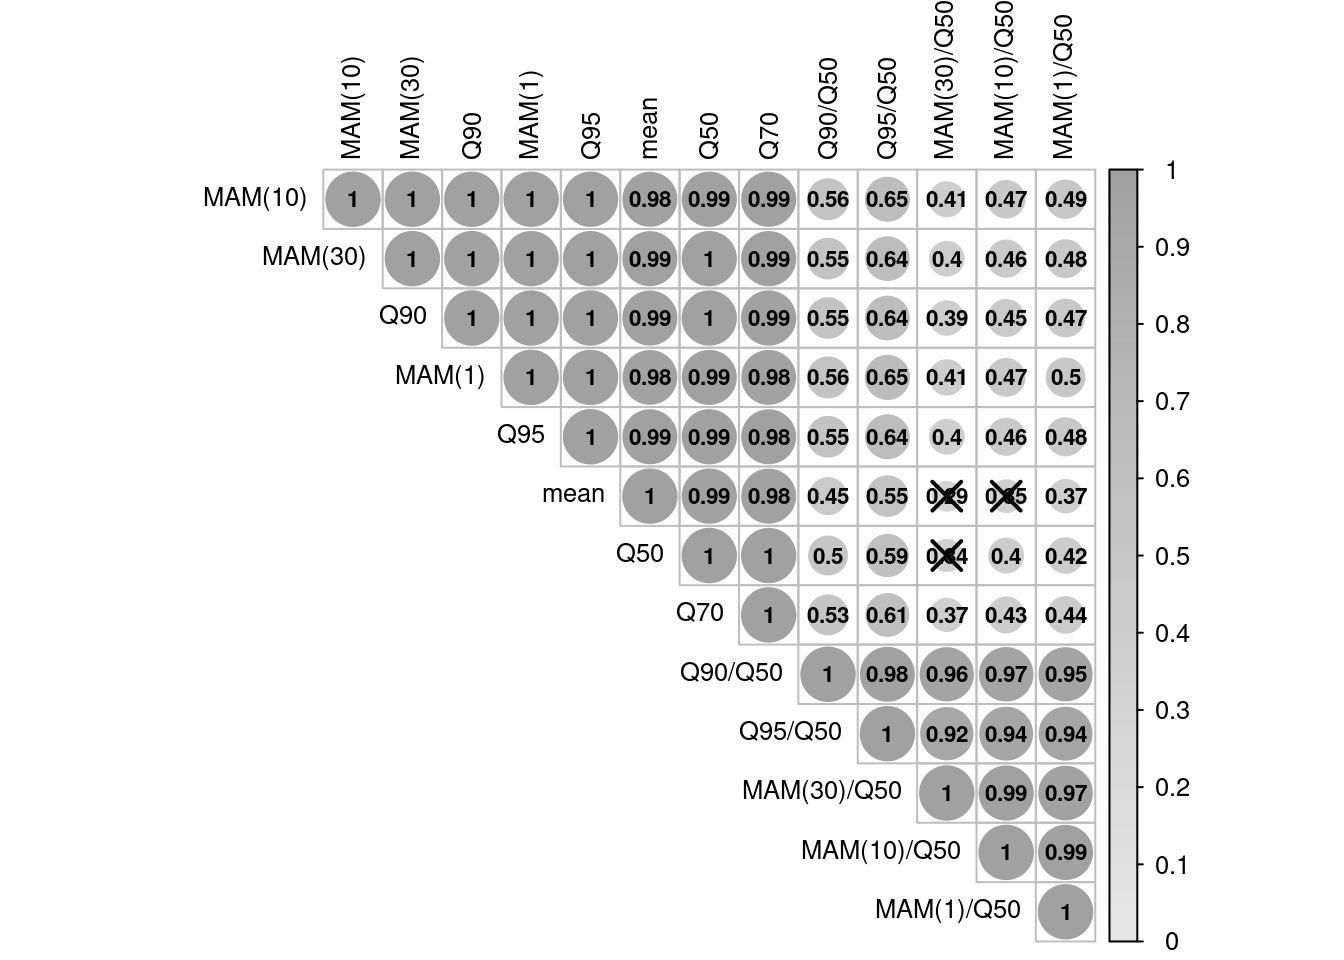
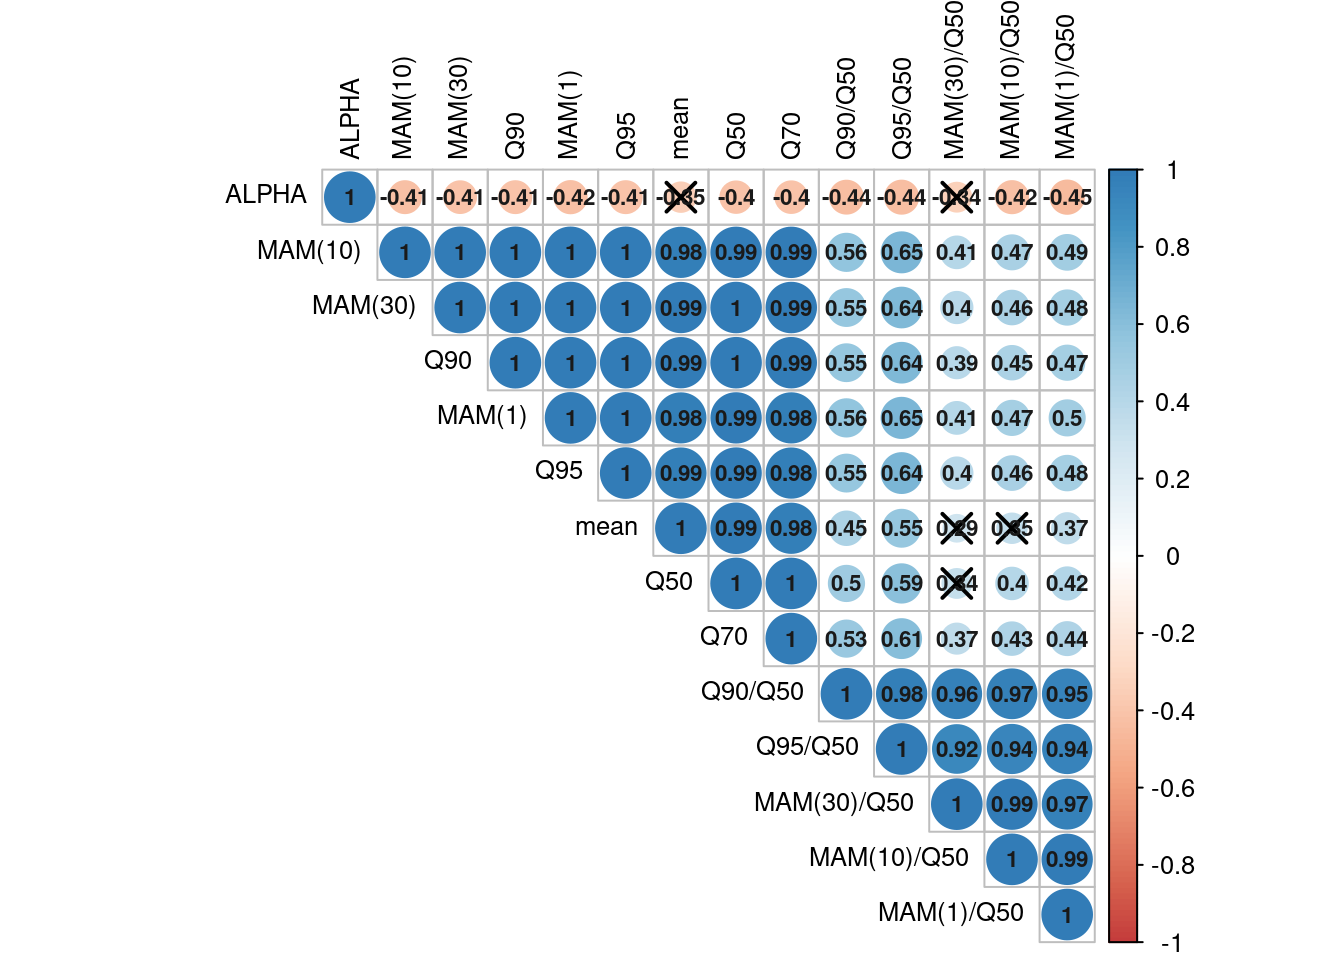
updating WE 5.7 and 5.8

Changed region(s): [[0.1562, 0.0, 0.9062, 1.0]]

diff --git a/worked_examples/html/5-4_threshold_level_method.html b/worked_examples/html/5-4_threshold_level_method.html
@@ -14,7 +14,6 @@
 
 <title>Worked example 5.4: Threshold level method</title>
 
-<script src="site_libs/header-attrs-2.3/header-attrs.js"></script>
 <link href="site_libs/tufte-css-2015.12.29/tufte-fonts.css" rel="stylesheet" />
 <link href="site_libs/tufte-css-2015.12.29/tufte.css" rel="stylesheet" />
 <link href="site_libs/highlightjs-9.12.0/default.css" rel="stylesheet" />
@@ -60,9 +59,9 @@ if (window.hljs) {
 </div>
 
 <p>It is possible to analyze any time series of river flow as long as there are not too many missing values in the dataset and a meaningful <span class="math inline">\(Q_0\)</span> threshold is chosen. Data from River Ngaruroro at Kuripapango (NZ) are used to demonstrate the procedure in the example below.</p>
-<div id="loading-the-data" class="section level1" number="1">
-<h1 number="1"><span class="header-section-number">1</span> Loading the Data</h1>
-<p>56 years of daily flow (20 September 1963 to 8 October 2019) are analysed. In this river the low flow period covers the turn of the calendar year. To avoid problems with allocating droughts to a specific calendar year because of drought events starting in one year and ending in another year, the start of the year is defined to be 1 September. An event is attributed to the year it starts.</p>
+<div id="loading-the-data" class="section level1">
+<h1><span class="header-section-number">1</span> Loading the Data</h1>
+<p>56 years of daily flow (20 September 1963 to 8 Oktober 2019) are analysed. In this river the low flow period covers the turn of the calendar year. To avoid problems with allocating droughts to a specific calendar year because of drought events starting in one year and ending in another year, the start of the year is defined to be 1 September. An event is attributed to the year it starts.</p>
 <pre class="r"><code>library(tidyverse)
 library(hydroDrought)
 
@@ -71,8 +70,8 @@ ngaruroro &lt;- international %&gt;%
   select(data) %&gt;%
   unnest(data) </code></pre>
 </div>
-<div id="preprocessing" class="section level1" number="2">
-<h1 number="2"><span class="header-section-number">2</span> Preprocessing</h1>
+<div id="preprocessing" class="section level1">
+<h1><span class="header-section-number">2</span> Preprocessing</h1>
 <p>The time series, Ngaruroro, contains missing values. We do not know if a missing value (<code>NA</code>) is ‘a flow below the threshold’ or ‘above the threshold’ as the flow value itself is unknown. A single missing value will cause the function <code>drought_events()</code> to terminate a dry spell (drought event) or wet spell. Subsequently most characteristics derived for this event (e.g. drought duration, drought termination, drought volume, … ) will not be correct.</p>
 <p>A conservative approach would be to eliminate years with missing values completely. Instead, to avoid loosing too many years of observation, periods of missing data can be interpolated if they are of short duration. Here periods of missing data have been interpolated if of short duration (&lt; 15 days), whereas years containing long periods of missing values (≥ 15 days) have been removed. After preprocessing the time series, 49 years of daily flow (1 September 1964 to 31 August 2019) will be analysed. In total eight years are omitted from the series (1963/64, 1965/66, 1977/78, 1978/79, 1986/87, 1987/88, 2001/02 and 2019/20).</p>
 <pre class="r"><code>ngaruroro &lt;- ngaruroro %&gt;%
@@ -108,8 +107,8 @@ ngaruroro &lt;- ngaruroro %&gt;%
 ## 7  2001          365            344           21    0.942
 ## 8  2019          366             38          328    0.104</code></pre>
 </div>
-<div id="threshold-selection-and-drought-events" class="section level1" number="3">
-<h1 number="3"><span class="header-section-number">3</span> Threshold selection and drought events</h1>
+<div id="threshold-selection-and-drought-events" class="section level1">
+<h1><span class="header-section-number">3</span> Threshold selection and drought events</h1>
 <p>A sequence of drought events is obtained from the streamflow hydrograph by considering periods with flow below a certain threshold, <span class="math inline">\(Q_0\)</span>. In this example <span class="math inline">\(Q_{90} = 4.95\)</span>m<sup>3</sup>s<sup>-1</sup> is used as threshold. A table of drought characteristics is derived with the function <code>drought_events()</code>.</p>
 <pre class="r"><code>q90 &lt;- lfquantile(ngaruroro$discharge, exc.freq = 0.9) %&gt;%
   print()</code></pre>
@@ -142,8 +141,8 @@ ngaruroro &lt;- ngaruroro %&gt;%
 <li><code>tqmin</code>: the date of the minimum flow.</li>
 </ul>
 </div>
-<div id="removing-minor-droughts-filtering" class="section level1" number="4">
-<h1 number="4"><span class="header-section-number">4</span> Removing minor droughts (Filtering)</h1>
+<div id="removing-minor-droughts-filtering" class="section level1">
+<h1><span class="header-section-number">4</span> Removing minor droughts (Filtering)</h1>
 <p>Several minor droughts, lasting for a few days only, can be observed. To reduce the problem of minor droughts two restrictions are imposed:</p>
 <ul>
 <li><p>a minimum drought duration, <span class="math inline">\(d_{min}\)</span> that removes droughts with duration less than the specified number of days;</p></li>
@@ -168,8 +167,8 @@ ngaruroro &lt;- ngaruroro %&gt;%
 ## 10    10 1969-03-25 1969-03-30  6 days   103766.  4.68 1969-03-26 FALSE   
 ## # … with 200 more rows</code></pre>
 </div>
-<div id="eliminating-dependent-droughts-pooling" class="section level1" number="5">
-<h1 number="5"><span class="header-section-number">5</span> Eliminating dependent droughts (Pooling)</h1>
+<div id="eliminating-dependent-droughts-pooling" class="section level1">
+<h1><span class="header-section-number">5</span> Eliminating dependent droughts (Pooling)</h1>
 <p>The inter-event time criterion (IC) is used to pool dependent droughts which are separated by a short period of flow above the threshold. If the time between two droughts is less than a critical duration, <span class="math inline">\(t_{min}\)</span>, the two events are pooled.</p>
 <p>In this example <span class="math inline">\(t_{min}\)</span> is set equal to two days.</p>
 <pre class="r"><code>pooled &lt;- ngaruroro %&gt;%

diff --git a/worked_examples/html/5-8_no_flow_indices.html b/worked_examples/html/5-8_no_flow_indices.html
@@ -14,7 +14,6 @@
 
 <title>Worked example 5.8: No-flow indices</title>
 
-<script src="site_libs/header-attrs-2.3/header-attrs.js"></script>
 <link href="site_libs/tufte-css-2015.12.29/tufte-fonts.css" rel="stylesheet" />
 <link href="site_libs/tufte-css-2015.12.29/tufte.css" rel="stylesheet" />
 <link href="site_libs/highlightjs-9.12.0/default.css" rel="stylesheet" />
@@ -58,16 +57,16 @@ if (window.hljs) {
 </ul>
 </div>
 
-<div id="loading-the-data" class="section level1" number="1">
-<h1 number="1"><span class="header-section-number">1</span> Loading the Data</h1>
+<div id="loading-the-data" class="section level1">
+<h1><span class="header-section-number">1</span> Loading the Data</h1>
 <pre class="r"><code>library(hydroDrought)
 library(tidyverse)
 
 rivers &lt;- international %&gt;%
   select(river, data) </code></pre>
 </div>
-<div id="finding-intermittent-rivers" class="section level1" number="2">
-<h1 number="2"><span class="header-section-number">2</span> Finding intermittent rivers</h1>
+<div id="finding-intermittent-rivers" class="section level1">
+<h1><span class="header-section-number">2</span> Finding intermittent rivers</h1>
 <p>Streamflow is on at least 5 days below the threshold of 0.001m<sup>3</sup>s<sup>-1</sup>. Removing incomplete first and last years.</p>
 <pre class="r"><code>intermittent &lt;- rivers %&gt;%
   mutate(
@@ -79,12 +78,12 @@ rivers &lt;- international %&gt;%
     spells = map(clipped, ~ires_metric(.x$time, .x$discharge, na = &quot;drop_year&quot;))
   ) </code></pre>
 </div>
-<div id="computing-metrics" class="section level1" number="3">
-<h1 number="3"><span class="header-section-number">3</span> Computing metrics</h1>
+<div id="computing-metrics" class="section level1">
+<h1><span class="header-section-number">3</span> Computing metrics</h1>
 <pre class="r"><code>f &lt;- list(&quot;frac nf years&quot; = no_flow_years ,
           &quot;MAN&quot; = MAN, &quot;CVAN&quot; = CVAN, &quot;no flow days&quot; = FAN,
           &quot;MAMD&quot; = MAMD,
-          &quot;mean onset&quot; = tau0, &quot;mean termin.&quot; = tauE)
+          &quot;onset&quot; = tau0, &quot;sd onset&quot; = tau0r, &quot;term.&quot; = tauE)
 
 metrics &lt;- intermittent %&gt;%
   transmute(
@@ -93,15 +92,15 @@ metrics &lt;- intermittent %&gt;%
   ) %&gt;%
   unnest_wider(metrics) %&gt;%
   print()</code></pre>
-<pre><code>## # A tibble: 6 x 8
-##   river          `frac nf years`   MAN   CVAN `no flow days`   MAMD `mean onset` `mean termin.`
-##   &lt;fct&gt;                    &lt;dbl&gt; &lt;dbl&gt;  &lt;dbl&gt; &lt;list&gt;          &lt;dbl&gt;       &lt;date&gt;         &lt;date&gt;
-## 1 Sabar                    1     185.  0.239  &lt;int [29]&gt;     168.         -05-12         -11-29
-## 2 Upper Guadiana           0.116  65   0.728  &lt;int [5]&gt;        7.56       -08-12         -10-14
-## 3 Dawib                    1     337.  0.0782 &lt;int [14]&gt;     291.         -01-06         -01-16
-## 4 Elands                   0.214  27.4 1.12   &lt;int [5]&gt;        2.79       -09-30         -10-05
-## 5 Ray                      0.945  95.1 0.598  &lt;int [51]&gt;      36.5        -05-19         -05-24
-## 6 Arroyo Seco              0.441  88.5 0.466  &lt;int [52]&gt;      38.3        -07-30         -10-24</code></pre>
+<pre><code>## # A tibble: 6 x 9
+##   river        `frac nf years`   MAN    CVAN `no flow days`   MAMD      onset `sd onset`     term.
+##   &lt;fct&gt;                  &lt;dbl&gt; &lt;dbl&gt;   &lt;dbl&gt; &lt;list&gt;          &lt;dbl&gt; &lt;month-da&gt;      &lt;dbl&gt; &lt;month-d&gt;
+## 1 Sabar                  1     185.  0.239   &lt;int [29]&gt;     168.       -05-12       60.0    -11-29
+## 2 Upper Guadi…           0.116  65   0.728   &lt;int [5]&gt;        8.12     -08-12       25.8    -10-14
+## 3 Dawib                  1     361.  0.00830 &lt;int [6]&gt;      298.       -01-01        0      -01-27
+## 4 Elands                 0.214  43.3 0.699   &lt;int [3]&gt;        7.89     -08-22       83.6    -09-04
+## 5 Ray                    0.945  98.2 0.576   &lt;int [46]&gt;      40.2      -05-14       52.8    -05-20
+## 6 Arroyo Seco            0.441  88.5 0.466   &lt;int [52]&gt;      38.3      -07-30       24.7    -10-24</code></pre>
 <pre class="r"><code>metrics %&gt;%
   select(river, n.days = `no flow days`) %&gt;%
   unnest(n.days) %&gt;%
@@ -116,8 +115,8 @@ metrics &lt;- intermittent %&gt;%
   theme(panel.grid.minor.y = element_blank())</code></pre>
 <p><img src="5-8_no_flow_indices_files/figure-html/unnamed-chunk-5-1.png" width="672"  /></p>
 </div>
-<div id="visualising-streamflow-permanence-spells" class="section level1" number="4">
-<h1 number="4"><span class="header-section-number">4</span> Visualising streamflow permanence (spells)</h1>
+<div id="visualising-streamflow-permanence-spells" class="section level1">
+<h1><span class="header-section-number">4</span> Visualising streamflow permanence (spells)</h1>
 <pre class="r"><code>spells &lt;-intermittent %&gt;%
   select(river, spells) %&gt;%
   unnest(spells) %&gt;%
@@ -127,7 +126,7 @@ metrics &lt;- intermittent %&gt;%
   ) 
 
 onoff &lt;- metrics %&gt;%
-  select(river, `mean onset`, &quot;mean termination&quot; = `mean termin.`) %&gt;%
+  select(river, &quot;mean onset&quot; = onset, &quot;mean termination&quot; = `term.`) %&gt;%
   pivot_longer(-river, names_to = &quot;Timing&quot;)
 
 ggplot(spells, aes(monthDay(time), year, fill = state)) +

diff --git a/worked_examples/html/5-7_rank_and_correlation_coefficients.html b/worked_examples/html/5-7_rank_and_correlation_coefficients.html
@@ -94,7 +94,8 @@ f &lt;- list(
   `MAM(30)` = function(x, t) mean_annual_minimum(discharge = x, time = t, n = 30),
   Q95 = function(x, ...) lfquantile(x, exc.freq = 0.95),
   Q90 = function(x, ...) lfquantile(x, exc.freq = 0.9),
-  Q70 = function(x, ...) lfquantile(x, exc.freq = 0.7)
+  Q70 = function(x, ...) lfquantile(x, exc.freq = 0.7),
+  ALPHA = function(x, t, ...) recession(time = t, discharge = x)
 )
 
 indices &lt;- r %&gt;%
@@ -113,20 +114,20 @@ indices &lt;- indices %&gt;%
     `MAM(1)/Q50` = `MAM(1)`/Q50,
   ) </code></pre>
 <p><label for="tufte-mn-1" class="margin-toggle">⊕</label><input type="checkbox" id="tufte-mn-1" class="margin-toggle"><span class="marginnote">Table 5.11 Flow indices for a subset of the Regional Data Set.</span></p>
-<pre><code>## # A tibble: 29 x 14
-##    id     mean   Q50 `MAM(1)` `MAM(10)` `MAM(30)`   Q95   Q90   Q70 `Q90/Q50`
-##    &lt;chr&gt; &lt;dbl&gt; &lt;dbl&gt;    &lt;dbl&gt;     &lt;dbl&gt;     &lt;dbl&gt; &lt;dbl&gt; &lt;dbl&gt; &lt;dbl&gt;     &lt;dbl&gt;
-##  1 2100… 0.615 0.443    0.144     0.179     0.220 0.132 0.178 0.31      0.402
-##  2 2100… 0.913 0.68     0.274     0.320     0.373 0.257 0.311 0.49      0.457
-##  3 2100… 0.613 0.429    0.129     0.164     0.216 0.14  0.179 0.305     0.417
-##  4 2100… 0.548 0.414    0.197     0.227     0.262 0.15  0.191 0.299     0.461
-##  5 2102… 6.47  4.91     2.43      2.75      3.08  2.44  2.83  3.86      0.576
-##  6 2102… 2.30  1.59     0.596     0.804     0.939 0.66  0.8   1.2       0.503
-##  7 2102… 0.409 0.348    0.166     0.183     0.201 0.124 0.159 0.255     0.457
-##  8 2102… 0.692 0.52     0.209     0.246     0.293 0.18  0.236 0.39      0.454
-##  9 2102… 1.08  0.513    0.168     0.199     0.263 0.167 0.216 0.368     0.421
-## 10 2102… 1.47  0.67     0.211     0.262     0.334 0.214 0.271 0.47      0.404
-## # … with 19 more rows, and 4 more variables: `Q95/Q50` &lt;dbl&gt;,
+<pre><code>## # A tibble: 29 x 15
+##    id     mean   Q50 `MAM(1)` `MAM(10)` `MAM(30)`   Q95   Q90   Q70 ALPHA
+##    &lt;chr&gt; &lt;dbl&gt; &lt;dbl&gt;    &lt;dbl&gt;     &lt;dbl&gt;     &lt;dbl&gt; &lt;dbl&gt; &lt;dbl&gt; &lt;dbl&gt; &lt;dbl&gt;
+##  1 2100… 0.615 0.443    0.144     0.179     0.220 0.132 0.178 0.31  0.248
+##  2 2100… 0.913 0.68     0.274     0.320     0.373 0.257 0.311 0.49  0.545
+##  3 2100… 0.613 0.429    0.129     0.164     0.216 0.14  0.179 0.305 0.472
+##  4 2100… 0.548 0.414    0.197     0.227     0.262 0.15  0.191 0.299 0.419
+##  5 2102… 6.47  4.91     2.43      2.75      3.08  2.44  2.83  3.86  0.261
+##  6 2102… 2.30  1.59     0.596     0.804     0.939 0.66  0.8   1.2   0.388
+##  7 2102… 0.409 0.348    0.166     0.183     0.201 0.124 0.159 0.255 0.196
+##  8 2102… 0.692 0.52     0.209     0.246     0.293 0.18  0.236 0.39  0.401
+##  9 2102… 1.08  0.513    0.168     0.199     0.263 0.167 0.216 0.368 0.748
+## 10 2102… 1.47  0.67     0.211     0.262     0.334 0.214 0.271 0.47  0.597
+## # … with 19 more rows, and 5 more variables: `Q90/Q50` &lt;dbl&gt;, `Q95/Q50` &lt;dbl&gt;,
 ## #   `MAM(30)/Q50` &lt;dbl&gt;, `MAM(10)/Q50` &lt;dbl&gt;, `MAM(1)/Q50` &lt;dbl&gt;</code></pre>
 </div>
 <div id="ranks" class="section level1">
@@ -158,14 +159,18 @@ x &lt;- indices %&gt;%
   select(-id)
 M &lt;- cor(x, method = &quot;pearson&quot;)
 res1 &lt;- cor.mtest(x, method = &quot;pearson&quot;, conf.level = .95)
+
+col2 &lt;- colorRampPalette(c(&quot;#67001F&quot;, &quot;#B2182B&quot;, &quot;#D6604D&quot;, &quot;#F4A582&quot;,
+                           &quot;#FDDBC7&quot;, &quot;#FFFFFF&quot;, &quot;#D1E5F0&quot;, &quot;#92C5DE&quot;,
+                           &quot;#4393C3&quot;, &quot;#2166AC&quot;, &quot;#053061&quot;))
+
 corrplot(M, type = &quot;upper&quot;,
-         col =rep(rev(gray.colors(100))[1:60], 2),
-         tl.cex = 0.8, addCoef.col = &quot;black&quot;,
+         col = tail(head(col2(200), -30), -30),
+         tl.cex = 0.8, addCoef.col = &quot;grey10&quot;,
          p.mat = res1$p, insig = &quot;pch&quot;, 
          order = &quot;hclust&quot;, addrect = 3, rect.col = &quot;navy&quot;,
          pch.cex = 2, 
-         number.cex = .7, tl.col = &quot;black&quot;,
-         cl.lim = c(0, 1))</code></pre>
+         number.cex = .7, tl.col = &quot;black&quot;)</code></pre>
 <p><img src="5-7_rank_and_correlation_coefficients_files/figure-html/unnamed-chunk-7-1.png" width="672"  /></p>
 </div>
 <div id="spearman-rank-correlation" class="section level1">
@@ -173,13 +178,12 @@ corrplot(M, type = &quot;upper&quot;,
 <pre class="r"><code>M &lt;- cor(x, method = &quot;spearman&quot;)
 res1 &lt;- cor.mtest(x, method = &quot;spearman&quot;, conf.level = .95)
 corrplot(M, type = &quot;upper&quot;,
-         col =rep(rev(gray.colors(100))[1:60], 2),
-         tl.cex = 0.8, addCoef.col = &quot;black&quot;,
+          col = tail(head(col2(200), -30), -30),
+         tl.cex = 0.8, addCoef.col = &quot;grey10&quot;,
          p.mat = res1$p, insig = &quot;pch&quot;, 
          order = &quot;hclust&quot;, addrect = 3, rect.col = &quot;navy&quot;,
          pch.cex = 2, 
-         number.cex = .7, tl.col = &quot;black&quot;,
-         cl.lim = c(0, 1))</code></pre>
+         number.cex = .7, tl.col = &quot;black&quot;)</code></pre>
 <p><img src="5-7_rank_and_correlation_coefficients_files/figure-html/unnamed-chunk-8-1.png" width="672"  /></p>
 </div>
 
